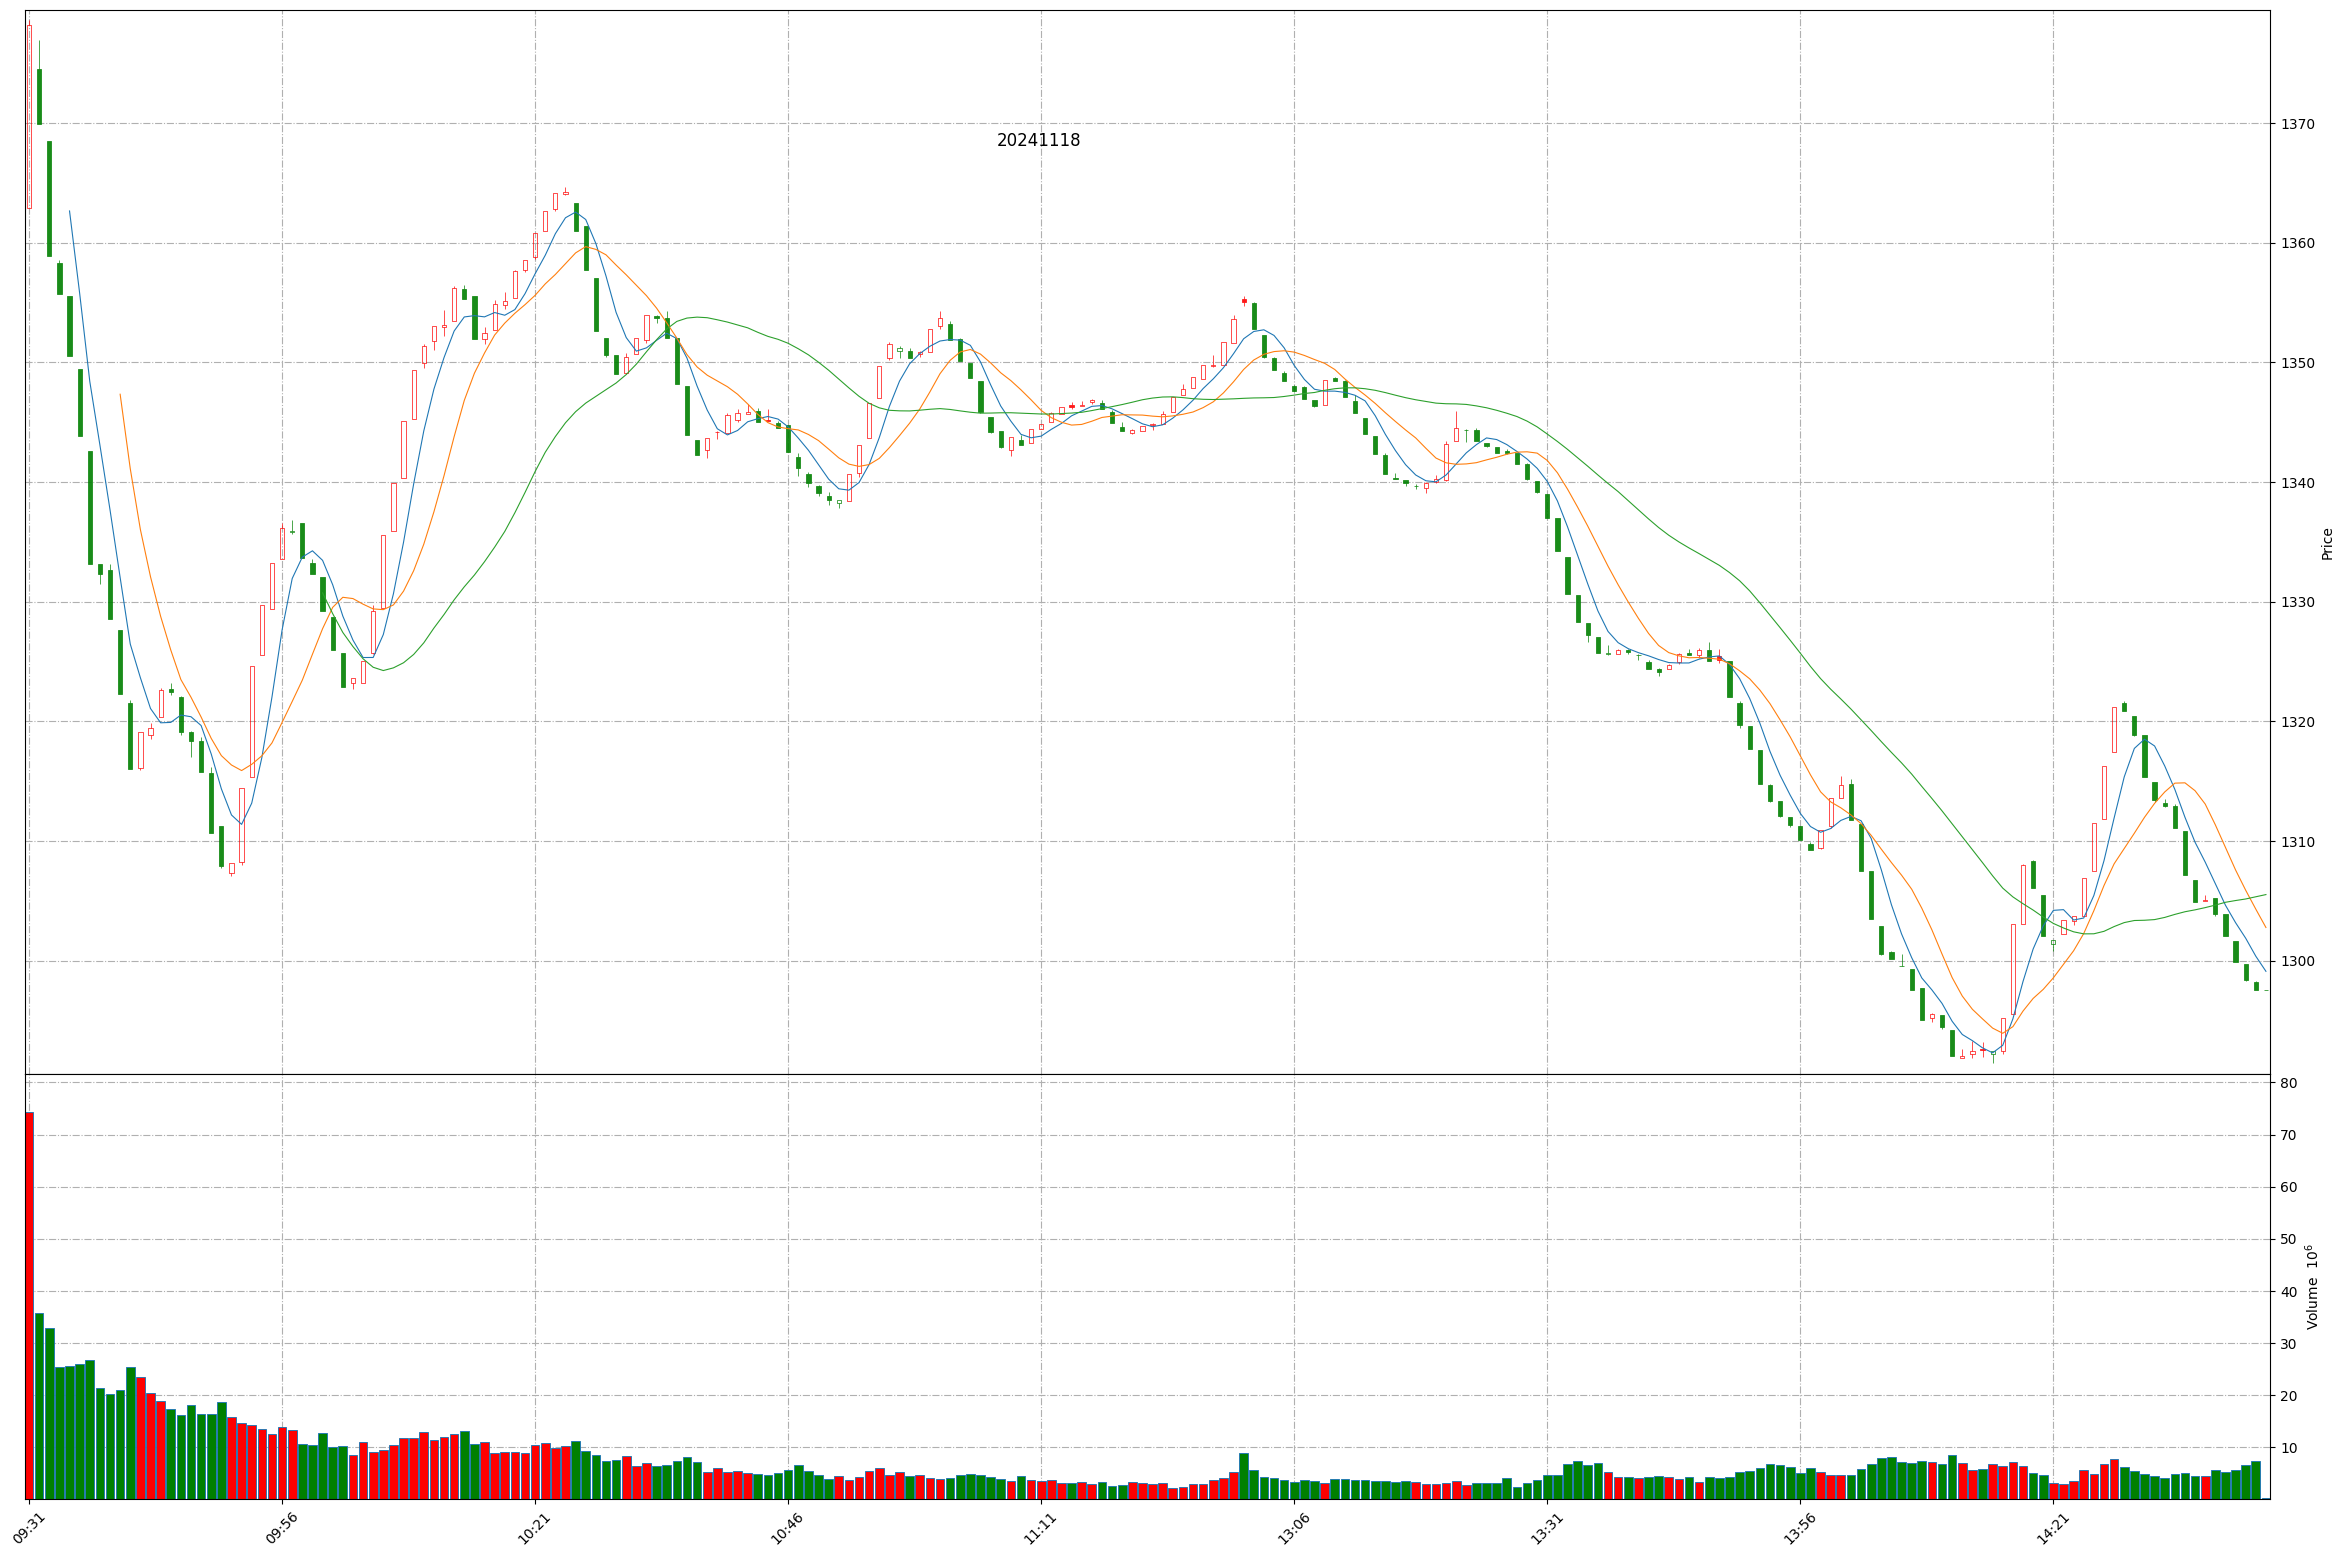
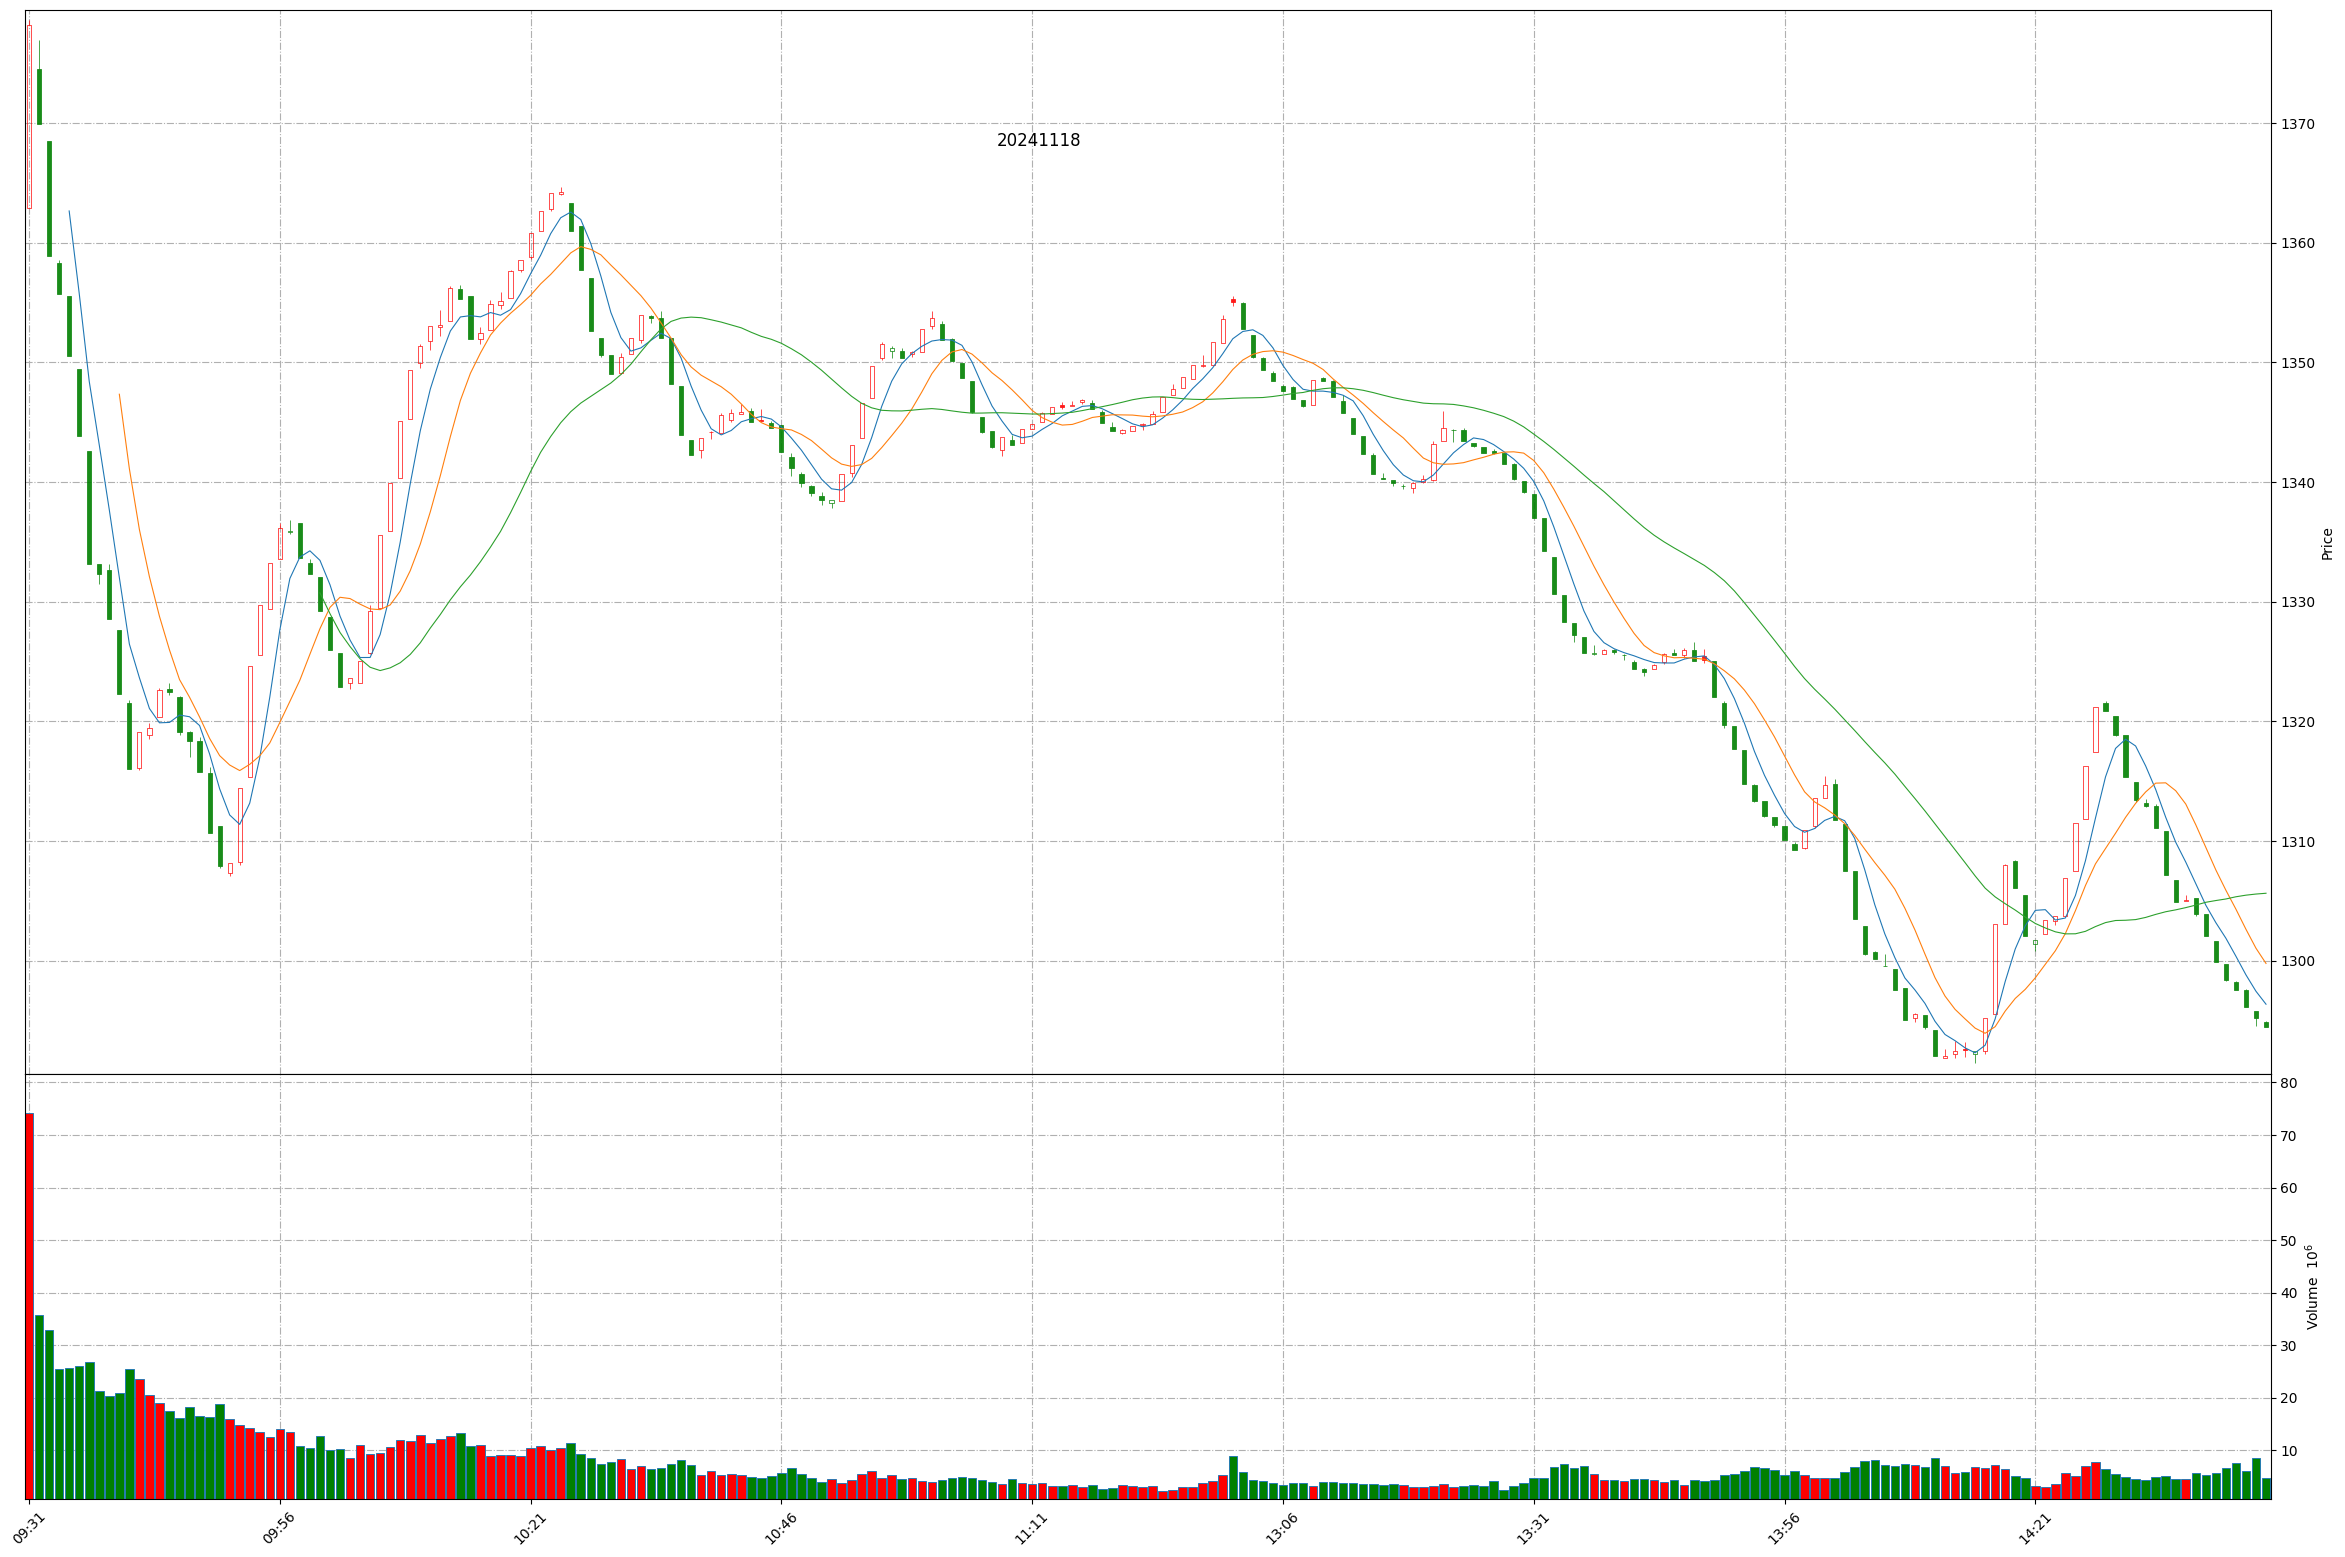
Github action update at 2024-11-18 14:43:41.

diff --git a/README.md b/README.md
@@ -1,11 +1,11 @@
 
 # Daily-A-share-market-quotes 每日 A 股指数（5min 更新）- 20241118
 
-### 上证指数 20241118 14:41
+### 上证指数 20241118 14:43
 ![](./fig/2024/11/20241118-sh000001.png)
 
-### 深证成指 20241118 14:41
+### 深证成指 20241118 14:43
 ![](./fig/2024/11/20241118-sz399001.png)
 
-### 北证50 20241118 14:41
+### 北证50 20241118 14:43
 ![](./fig/2024/11/20241118-bj899050.png)
